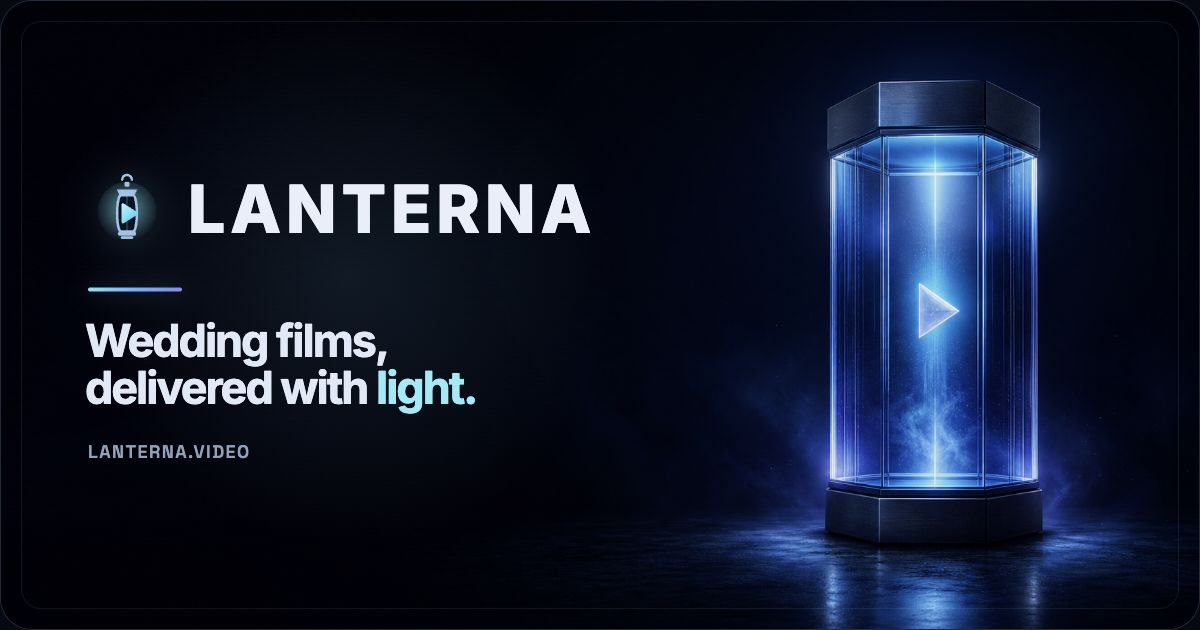
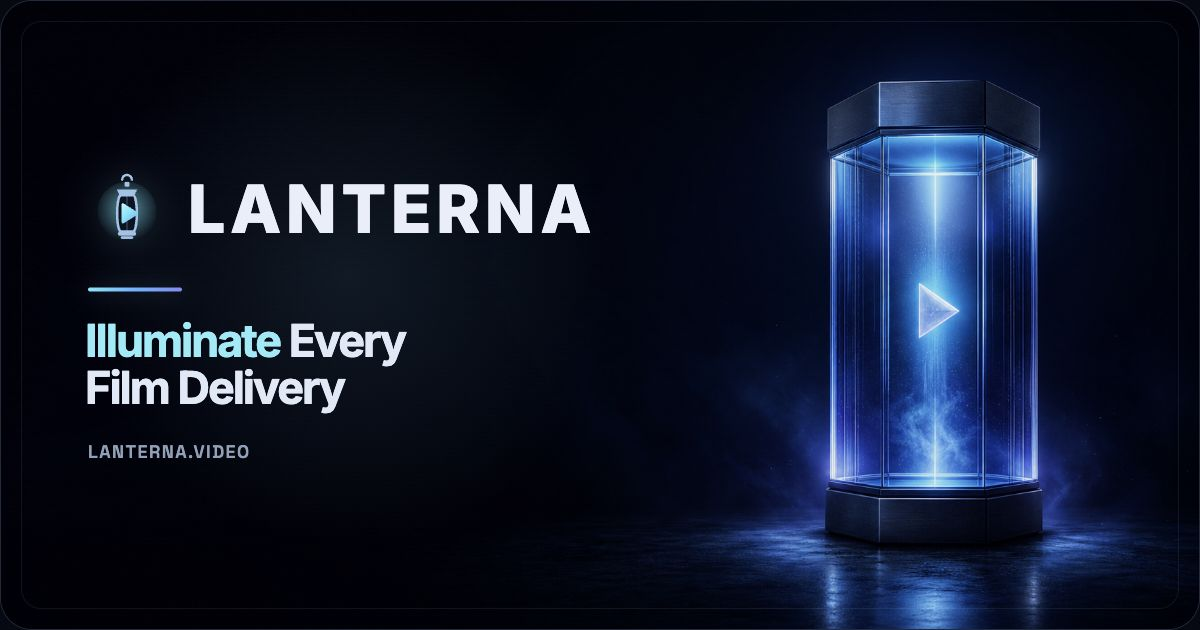
Update Lanterna social share tagline

Changed region(s): [[0.0617, 0.5127, 0.4008, 0.6635]]

diff --git a/index.html b/index.html
@@ -7,18 +7,18 @@
     <meta name="theme-color" content="#050913" />
     <meta property="og:type" content="website" />
     <meta property="og:site_name" content="LANTERNA" />
-    <meta property="og:title" content="LANTERNA — Wedding films, delivered with light" />
+    <meta property="og:title" content="LANTERNA — Illuminate Every Film Delivery" />
     <meta property="og:description" content="Cinematic wedding-film galleries, secure delivery, and flexible storage for modern studios." />
     <meta property="og:url" content="https://lanterna.video/" />
     <meta property="og:image" content="https://lanterna.video/social/lanterna-share.png" />
     <meta property="og:image:width" content="1200" />
     <meta property="og:image:height" content="630" />
-    <meta property="og:image:alt" content="LANTERNA — Wedding films, delivered with light" />
+    <meta property="og:image:alt" content="LANTERNA — Illuminate Every Film Delivery" />
     <meta name="twitter:card" content="summary_large_image" />
-    <meta name="twitter:title" content="LANTERNA — Wedding films, delivered with light" />
+    <meta name="twitter:title" content="LANTERNA — Illuminate Every Film Delivery" />
     <meta name="twitter:description" content="Cinematic wedding-film galleries, secure delivery, and flexible storage for modern studios." />
     <meta name="twitter:image" content="https://lanterna.video/social/lanterna-share.png" />
-    <meta name="twitter:image:alt" content="LANTERNA — Wedding films, delivered with light" />
+    <meta name="twitter:image:alt" content="LANTERNA — Illuminate Every Film Delivery" />
     <link rel="icon" type="image/svg+xml" href="/favicon.svg" />
     <title>LANTERNA — Wedding films, delivered with light</title>
   </head>
